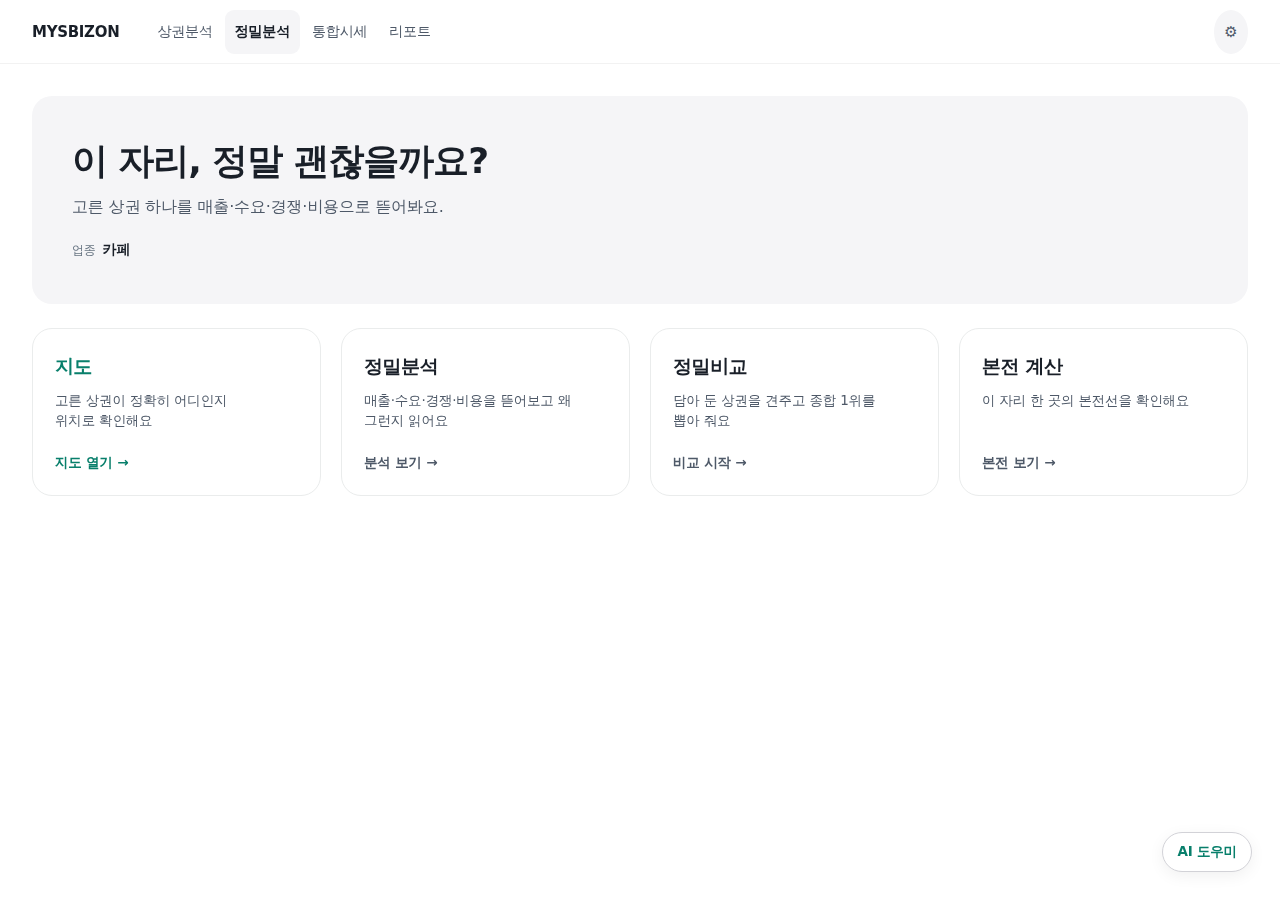
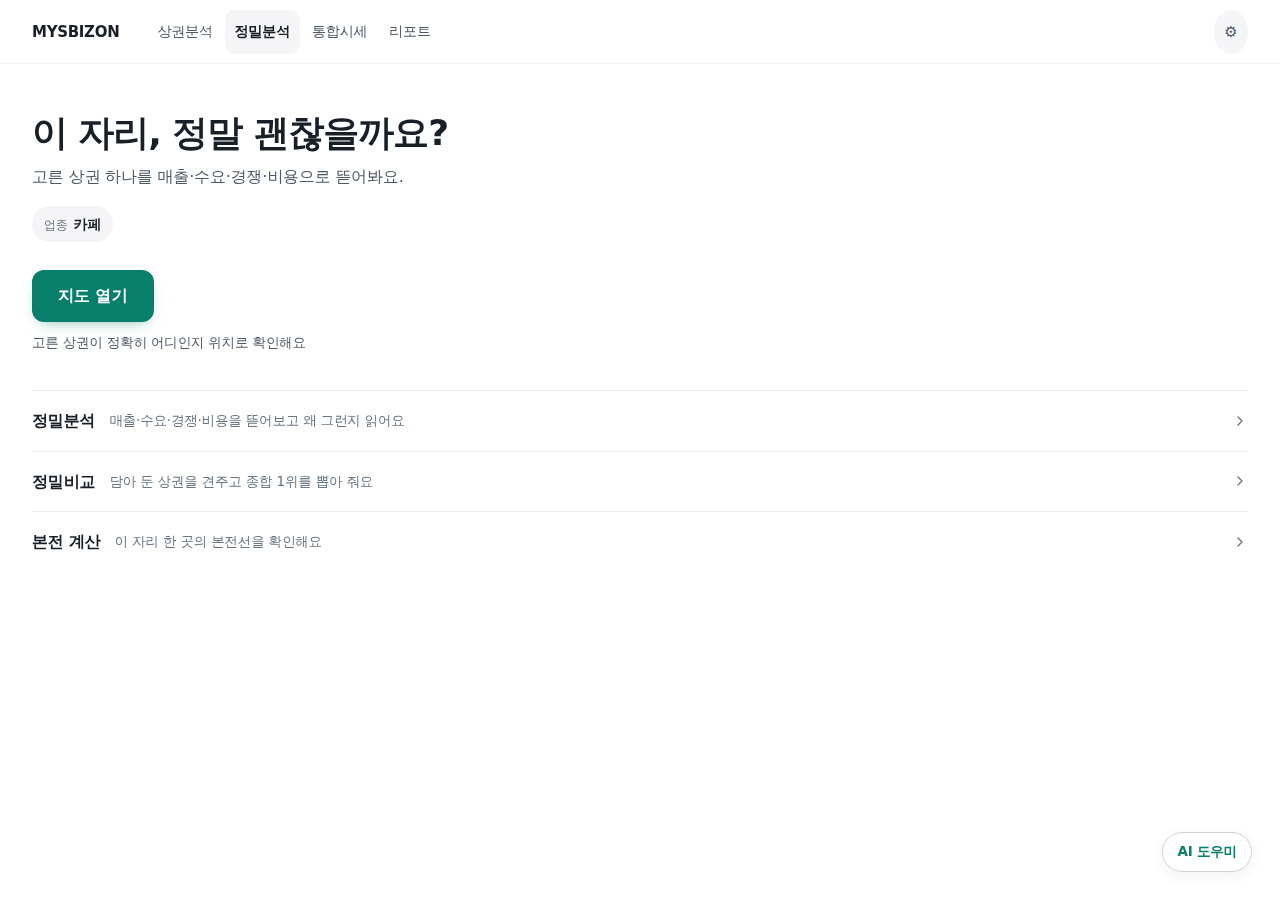
허브 두 화면 — 메뉴판을 걷어내고 다음 행동 하나로
390px 에서 글자가 435px 에서 끝나고 **아래 465px 이 빈칸**이었다(화면의 52%).
카드 셋이 무게가 같아 무엇부터 눌러야 할지 알 수 없었고, 주 행동은 글자 링크였다.
AGENTS.md·CLAUDE.md 에 적힌 "허브: 다음 행동 버튼 하나 + 나머지 한 줄 목록"과도 달랐다.

  · 회색 히어로 카드를 걷어냈다(모바일 185px · 데스크톱 208px 을 먹고 있었다)
  · **채운 민트 버튼 하나** — 화면에 강한 버튼은 이것뿐이다(`ds('cta')` 재사용)
  · 버튼 밑에 **이미 계산해 둔 결과 한 줄** — '카페 · 975곳 중 1위 외대앞역 1번'.
    새 자료가 아니라 `rank()` 가 이미 만들어 둔 값이다. 없으면 설명 줄로 내려간다.
  · 나머지는 **한 줄 목록**(이름 · 설명 · ›). 모바일에서는 설명을 접는다.

같이 고친 것: 상권을 아직 안 골랐을 때 주 버튼이 '지도 열기'였다. 지도는 아직
준비 중이라 이름이 약속을 못 지킨다 — '상권 고르기'로 바꿨다(그 화면의 목적도 그것이다).

문구는 `hub.peekTop`·`hub.peekRank` 사전 키로 넣었다. 이어붙였더니 영어·중국어
화면에 '975곳 중 1위' 가 그대로 남아 시험이 잡았다.

확인: npm test 31/31 · check:html · 390px·1280px 캡처

Claude-Session: https://claude.ai/code/session_01DSv5WNHRuPBTWcjbVKRQJm

diff --git a/frontend/app-logic.js b/frontend/app-logic.js
@@ -1091,6 +1091,20 @@ class Component extends DCLogic {
         // 강조는 하나만. 셋 다 강조하면 아무것도 강조되지 않는다.
         const next = zone ? 'find'
                           : (selNm ? 'fineDetail' : 'map');
+        // 허브가 메뉴판으로만 끝나면 화면 절반이 빈다. 이미 계산해 둔 값 한 줄을
+        // 버튼 밑에 붙여 '누르면 무엇이 나오는지'를 미리 보여준다. 없으면 줄을 안 그린다.
+        const r = this.rank();
+        const peek = (()=>{
+          if(!r || !r.list.length) return '';
+          if(zone){
+            return this.t('hub.peekTop',{ind:this.indName(S.ind), n:r.covered.toLocaleString(),
+                                         zone:this.zoneLabelOf(r.list[0].name)});
+          }
+          if(!selId) return '';
+          const i = r.list.findIndex(o=>o.id===selId);
+          if(i<0) return '';
+          return this.t('hub.peekRank',{zone:selNm, n:r.covered.toLocaleString(), r:i+1});
+        })();
         return {
           title: HEAD[k].t,
           desc: HEAD[k].d,
@@ -1103,40 +1117,39 @@ class Component extends DCLogic {
           // 메뉴판 대신 '다음 행동' 하나를 크게 둔다(§14·§18).
           // 나머지는 아래 한 줄짜리 목록으로 — 넷을 나란히 두면 무엇부터 눌러야 할지 모른다.
           primary:(()=>{
-            const it=(g?g.items:[]).find(([k])=>k===next);
-            if(!it) return {label:'', sub:'', go:()=>{}, has:false};
+            const it=(g?g.items:[]).find(([kk])=>kk===next);
+            if(!it) return {has:false, label:'', sub:'', peek:'', hasPeek:false, go:()=>{}};
             const c=CARD[next]||{d:'',cta:'열기'};
-            return {label:c.cta, sub:c.d, has:true,
+            // 상권을 아직 안 골랐으면 '지도 열기'가 아니라 '상권 고르기'다 —
+            // 지도 자체는 아직 준비 중이고, 이 화면의 목적은 목록에서 한 곳을 고르는 것이다.
+            const first = (next==='map' && !selNm);
+            const label = first ? '상권 고르기' : c.cta;
+            return {has:true, label:label, sub:c.d,
+                    // 결과 한 줄이 있으면 그걸 쓰고, 없으면 '무엇을 하는 곳인지'로 내려간다.
+                    peekText: peek || (first ? '한 곳을 고르면 그 자리를 뜯어봐요' : c.d),
+                    peekStyle: peek ? 'font-weight:600;color:var(--accent)' : 'color:var(--ink2)',
+                    style:this.ds('cta')+';display:inline-flex;align-items:center;justify-content:center;'
+                      +'gap:8px;'+this.L('width:100%','','')+';max-width:100%',
                     go:()=>this.setState({screen:next,menu:null})};
           })(),
-          // 배너 — 이 메뉴가 무엇을 하는 곳인지 한 덩어리로. 화면 폭을 다 쓴다.
-          banner:'background:var(--surface);border-radius:var(--r-lg);'
-            +'padding:'+this.L('26px 20px','34px 30px','44px 40px'),
-          // 카드 한 줄 — 데스크톱은 나란히, 모바일은 가로로 넘긴다(§9·§10)
-          cardsGrid:this.L('', 'display:grid;gap:16px;grid-template-columns:repeat(auto-fit,minmax(220px,1fr))',
-                               'display:grid;gap:20px;grid-template-columns:repeat(auto-fit,minmax(240px,1fr))'),
-          cardsAsRail:this.bp()==='mobile',
-          cardsAsGrid:this.bp()!=='mobile',
-          rail:this.rail('hub',{per:4}),
-          cards:(g?g.items:[]).map(([key,label])=>{
-            const on=key===next;
-            const c=CARD[key]||{d:'',cta:'열기'};
+          // 배너 — 회색 카드를 걷어내고 글자만 둔다. 모바일에서 185px 을 먹고 있었다.
+          banner:'padding:0',
+          // 나머지는 한 줄짜리 목록. 카드 셋을 나란히 두면 무게가 같아져 강조가 사라진다.
+          rest:(g?g.items:[]).filter(([key])=>key!==next).map(([key,label])=>{
+            const c=CARD[key]||{d:''};
             return {
-              label:label, sub:c.d, cta:c.cta+' →', on:on,
+              label:label, sub:c.d,
               go:()=>this.setState({screen:key,menu:null}),
-              labelStyle:'font-size:'+this.L('17px','18px','19px')+';font-weight:700;letter-spacing:-.02em;'
-                +(on?'color:var(--accent)':'color:var(--ink)'),
-              subStyle:'font-size:13.5px;line-height:1.5;text-wrap:pretty;color:var(--ink2);margin-top:8px',
-              ctaStyle:'font-size:13.5px;font-weight:600;margin-top:auto;padding-top:16px;white-space:nowrap;'
-                +(on?'color:var(--accent)':'color:var(--ink2)'),
-              // 카드 넷은 테두리를 똑같이 둔다. 강조는 색 테두리가 아니라
-              // 제목·버튼 글자 색으로만 준다 — 테두리에 색을 넣으면 그것부터 눈에 걸린다.
-              style:'display:flex;flex-direction:column;height:100%;min-height:'+this.L('132px','150px','168px')+';'
-                +'padding:'+this.L('18px','20px','22px')+';border-radius:var(--r-lg);cursor:pointer;min-width:0;'
-                +'transition:transform .18s cubic-bezier(.2,.7,.3,1);background:var(--bg);'
-                +'border:1px solid var(--line)'
+              row:'display:flex;align-items:center;gap:14px;padding:'+this.L('15px 0','16px 0','17px 0')
+                +';border-top:1px solid var(--line);cursor:pointer;min-width:0',
+              labelStyle:'flex:0 0 auto;font-size:16px;font-weight:600;letter-spacing:-.01em;white-space:nowrap',
+              // 모바일에서는 설명을 접는다 — 칸이 좁아 어차피 말줄임으로 잘린다.
+              subStyle:this.bp()==='mobile' ? 'display:none'
+                : 'flex:1 1 auto;min-width:0;font-size:13.5px;color:var(--ink3);'
+                  +'white-space:nowrap;overflow:hidden;text-overflow:ellipsis',
+              spacerStyle:this.bp()==='mobile' ? 'flex:1 1 auto' : 'display:none'
             };
-          }),
+          })
         };
       })(),
       goFind:go('find'), goDiag:go('diag'), goCmp:go('sim'),

diff --git a/frontend/index.html b/frontend/index.html
@@ -642,50 +642,42 @@
         </sc-if>
       </div>
     </sc-if>
-    <!-- 허브 (상권분석 · 정밀분석) — 위에 배너, 아래에 카드 한 줄 -->
+    <!-- 허브 (상권분석 · 정밀분석) — 다음 행동 하나 + 나머지 한 줄 목록 -->
     <sc-if value="{{ onHub }}">
-      <section style="padding:32px 0 0">
-        <!-- 배너 + 서비스 소개 -->
-        <div style="{{ hub.banner }}">
-          <h1 style="{{ ds1 }}">{{ hub.title }}</h1>
-          <p style="{{ dsBody }}; margin-top:12px;max-width:620px">{{ hub.desc }}</p>
-          <div style="display:flex;gap:18px;flex-wrap:wrap;margin-top:18px">
-            <sc-for list="{{ hub.ctx }}" as="c">
-              <span style="display:inline-flex;align-items:baseline;gap:7px;min-width:0">
-                <span class="u-note-f">{{ c.label }}</span>
-                <span style="font-size:14px;font-weight:600;overflow:hidden;text-overflow:ellipsis">{{ c.value }}</span>
-              </span>
-            </sc-for>
-          </div>
+      <section style="padding:48px 0 0">
+        <h1 style="{{ ds1 }}">{{ hub.title }}</h1>
+        <p style="{{ dsBody }}; margin-top:10px;max-width:560px">{{ hub.desc }}</p>
+
+        <div style="display:flex;gap:8px;flex-wrap:wrap;margin-top:16px">
+          <sc-for list="{{ hub.ctx }}" as="c">
+            <span style="{{ c.style }}">
+              <span class="u-note-f">{{ c.label }}</span>
+              <span style="font-size:14px;font-weight:600;overflow:hidden;text-overflow:ellipsis">{{ c.value }}</span>
+            </span>
+          </sc-for>
         </div>
 
-        <!-- 카드 한 줄 — 데스크톱·태블릿은 나란히 -->
-        <sc-if value="{{ hub.cardsAsGrid }}">
-          <div style="{{ hub.cardsGrid }}; margin-top:24px">
-            <sc-for list="{{ hub.cards }}" as="c">
-              <div role="button" tabIndex="0" onClick="{{ c.go }}" style="{{ c.style }}" style-hover="transform:translateY(-3px)">
-                <div style="{{ c.labelStyle }}">{{ c.label }}</div>
-                <div style="{{ c.subStyle }}">{{ c.sub }}</div>
-                <div style="{{ c.ctaStyle }}">{{ c.cta }}</div>
-              </div>
-            </sc-for>
+        <!-- 다음 행동 하나. 채운 버튼은 화면에 이것 하나뿐이다 -->
+        <sc-if value="{{ hub.primary.has }}">
+          <div style="margin-top:28px">
+            <button onClick="{{ hub.primary.go }}" style="{{ hub.primary.style }}" style-hover="filter:brightness(1.06)">{{ hub.primary.label }}</button>
+            <!-- 이미 계산해 둔 결과 한 줄. 값이 없으면 설명 줄로 내려간다 -->
+            <div style="font-size:13.5px;margin-top:12px;overflow:hidden;text-overflow:ellipsis;white-space:nowrap;{{ hub.primary.peekStyle }}">{{ hub.primary.peekText }}</div>
           </div>
         </sc-if>
 
-        <!-- 모바일은 가로로 넘긴다(§10) -->
-        <sc-if value="{{ hub.cardsAsRail }}">
-          <div data-rail="hub" style="{{ hub.rail.trackStyle }}; margin-top:20px">
-            <sc-for list="{{ hub.cards }}" as="c">
-              <div style="{{ hub.rail.itemStyle }}">
-                <div role="button" tabIndex="0" onClick="{{ c.go }}" style="{{ c.style }}">
-                  <div style="{{ c.labelStyle }}">{{ c.label }}</div>
-                  <div style="{{ c.subStyle }}">{{ c.sub }}</div>
-                  <div style="{{ c.ctaStyle }}">{{ c.cta }}</div>
-                </div>
-              </div>
-            </sc-for>
-          </div>
-        </sc-if>
+        <div style="margin-top:36px">
+          <sc-for list="{{ hub.rest }}" as="c">
+            <div role="button" tabIndex="0" onClick="{{ c.go }}" class="pick-opt" style="{{ c.row }}">
+              <span style="{{ c.labelStyle }}">{{ c.label }}</span>
+              <span style="{{ c.subStyle }}">{{ c.sub }}</span>
+              <span style="{{ c.spacerStyle }}"></span>
+              <svg viewBox="0 0 24 24" fill="none" stroke="currentColor" stroke-width="2" stroke-linecap="round" stroke-linejoin="round" style="flex:none;width:16px;height:16px;color:var(--ink3);display:block">
+                <sc-for list="{{ icoChevron }}" as="p"><path d="{{ p.d }}"></path></sc-for>
+              </svg>
+            </div>
+          </sc-for>
+        </div>
       </section>
     </sc-if>
     <!-- 리포트 -->

diff --git a/frontend/screens/05-hub.html b/frontend/screens/05-hub.html
@@ -1,46 +1,38 @@
-    <!-- 허브 (상권분석 · 정밀분석) — 위에 배너, 아래에 카드 한 줄 -->
+    <!-- 허브 (상권분석 · 정밀분석) — 다음 행동 하나 + 나머지 한 줄 목록 -->
     <sc-if value="{{ onHub }}">
-      <section style="padding:32px 0 0">
-        <!-- 배너 + 서비스 소개 -->
-        <div style="{{ hub.banner }}">
-          <h1 style="{{ ds1 }}">{{ hub.title }}</h1>
-          <p style="{{ dsBody }}; margin-top:12px;max-width:620px">{{ hub.desc }}</p>
-          <div style="display:flex;gap:18px;flex-wrap:wrap;margin-top:18px">
-            <sc-for list="{{ hub.ctx }}" as="c">
-              <span style="display:inline-flex;align-items:baseline;gap:7px;min-width:0">
-                <span class="u-note-f">{{ c.label }}</span>
-                <span style="font-size:14px;font-weight:600;overflow:hidden;text-overflow:ellipsis">{{ c.value }}</span>
-              </span>
-            </sc-for>
-          </div>
+      <section style="padding:48px 0 0">
+        <h1 style="{{ ds1 }}">{{ hub.title }}</h1>
+        <p style="{{ dsBody }}; margin-top:10px;max-width:560px">{{ hub.desc }}</p>
+
+        <div style="display:flex;gap:8px;flex-wrap:wrap;margin-top:16px">
+          <sc-for list="{{ hub.ctx }}" as="c">
+            <span style="{{ c.style }}">
+              <span class="u-note-f">{{ c.label }}</span>
+              <span style="font-size:14px;font-weight:600;overflow:hidden;text-overflow:ellipsis">{{ c.value }}</span>
+            </span>
+          </sc-for>
         </div>
 
-        <!-- 카드 한 줄 — 데스크톱·태블릿은 나란히 -->
-        <sc-if value="{{ hub.cardsAsGrid }}">
-          <div style="{{ hub.cardsGrid }}; margin-top:24px">
-            <sc-for list="{{ hub.cards }}" as="c">
-              <div role="button" tabIndex="0" onClick="{{ c.go }}" style="{{ c.style }}" style-hover="transform:translateY(-3px)">
-                <div style="{{ c.labelStyle }}">{{ c.label }}</div>
-                <div style="{{ c.subStyle }}">{{ c.sub }}</div>
-                <div style="{{ c.ctaStyle }}">{{ c.cta }}</div>
-              </div>
-            </sc-for>
+        <!-- 다음 행동 하나. 채운 버튼은 화면에 이것 하나뿐이다 -->
+        <sc-if value="{{ hub.primary.has }}">
+          <div style="margin-top:28px">
+            <button onClick="{{ hub.primary.go }}" style="{{ hub.primary.style }}" style-hover="filter:brightness(1.06)">{{ hub.primary.label }}</button>
+            <!-- 이미 계산해 둔 결과 한 줄. 값이 없으면 설명 줄로 내려간다 -->
+            <div style="font-size:13.5px;margin-top:12px;overflow:hidden;text-overflow:ellipsis;white-space:nowrap;{{ hub.primary.peekStyle }}">{{ hub.primary.peekText }}</div>
           </div>
         </sc-if>
 
-        <!-- 모바일은 가로로 넘긴다(§10) -->
-        <sc-if value="{{ hub.cardsAsRail }}">
-          <div data-rail="hub" style="{{ hub.rail.trackStyle }}; margin-top:20px">
-            <sc-for list="{{ hub.cards }}" as="c">
-              <div style="{{ hub.rail.itemStyle }}">
-                <div role="button" tabIndex="0" onClick="{{ c.go }}" style="{{ c.style }}">
-                  <div style="{{ c.labelStyle }}">{{ c.label }}</div>
-                  <div style="{{ c.subStyle }}">{{ c.sub }}</div>
-                  <div style="{{ c.ctaStyle }}">{{ c.cta }}</div>
-                </div>
-              </div>
-            </sc-for>
-          </div>
-        </sc-if>
+        <div style="margin-top:36px">
+          <sc-for list="{{ hub.rest }}" as="c">
+            <div role="button" tabIndex="0" onClick="{{ c.go }}" class="pick-opt" style="{{ c.row }}">
+              <span style="{{ c.labelStyle }}">{{ c.label }}</span>
+              <span style="{{ c.subStyle }}">{{ c.sub }}</span>
+              <span style="{{ c.spacerStyle }}"></span>
+              <svg viewBox="0 0 24 24" fill="none" stroke="currentColor" stroke-width="2" stroke-linecap="round" stroke-linejoin="round" style="flex:none;width:16px;height:16px;color:var(--ink3);display:block">
+                <sc-for list="{{ icoChevron }}" as="p"><path d="{{ p.d }}"></path></sc-for>
+              </svg>
+            </div>
+          </sc-for>
+        </div>
       </section>
     </sc-if>

diff --git a/frontend/logic/i18n.js b/frontend/logic/i18n.js
@@ -137,6 +137,8 @@ globalThis.MysbizonParts.i18n = {
       'menu.sweep':'자치구 훑기','menu.map':'지도','menu.detail':'정밀분석',
       'menu.sim':'정밀비교','menu.bep':'본전 계산',
 
+      'hub.peekTop':'{ind} · {n}곳 중 1위 {zone}',
+      'hub.peekRank':'{zone} · {n}곳 중 {r}위',
       'home.eyebrow':'내 장사의 시작, 데이터로 한 걸음 더',
       'home.title':'어떤 동네에서 시작해 볼까요?',
       'home.sub':'업종을 고르면 동네를 비교하고, 내 조건에 맞는 본전선을 확인할 수 있어요.',
